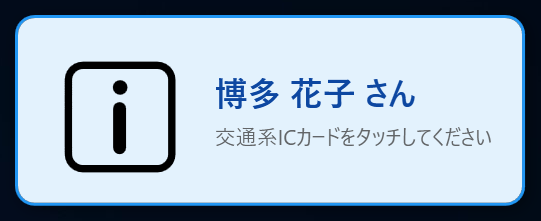
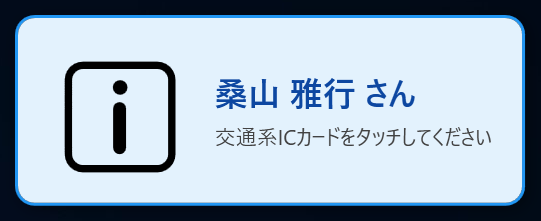
fix: ユーザーマニュアル概要版の職員証認識トーストを、写真の職員証の氏名で撮るようにした（#2243） (#2244)

diff --git a/ICCardManager/tests/ICCardManager.Tests/Tools/ScreenshotSyncMappingTests.cs b/ICCardManager/tests/ICCardManager.Tests/Tools/ScreenshotSyncMappingTests.cs
@@ -202,7 +202,7 @@ namespace ICCardManager.Tests.Tools
                     var classText = testSources.Select(File.ReadAllText)
                         .FirstOrDefault(t => Regex.IsMatch(t, $@"class\s+{Regex.Escape(fqn.Groups["class"].Value)}\b"));
                     classText.Should().NotBeNull($"{filter}: クラス {fqn.Groups["class"].Value} が撮影テストに存在すること");
-                    Regex.IsMatch(classText!, $@"public\s+void\s+{Regex.Escape(fqn.Groups["prefix"].Value)}\w*\s*\(")
+                    Regex.IsMatch(classText!, $@"public\s+(?:async\s+)?(?:void|Task)\s+{Regex.Escape(fqn.Groups["prefix"].Value)}\w*\s*\(")
                         .Should().BeTrue($"{filter}: 接頭辞 {fqn.Groups["prefix"].Value} で始まるテストメソッドが存在すること");
                 }
                 else if (display.Success)
@@ -492,7 +492,183 @@ $b = Invoke-ManifestScript (@(""-Write"", ""-Json"") +
             ExtractCapturedFileNames(sample).Should().BeEquivalentTo(new[] { "main.png", "card.png", "lend.png" });
         }
 
+        // ── 概要版の写真と並べる画像（Issue #2243） ─────────────────────────────────
+
+        /// <summary>
+        /// 概要版マニュアルで職員証の写真（<c>touch_syokuinsho.jpg</c>）と同じ行に並ぶ画像は、
+        /// 写真の職員証の氏名で撮る撮影テストが保存する。
+        /// </summary>
+        /// <remarks>
+        /// 本編用の <c>staff_recognized.png</c> と同じ撮影でトースト単体を撮っていた頃は、トーストの氏名が架空の
+        /// 「博多 花子」になり、写真に写る職員証の氏名と食い違っていた。
+        /// </remarks>
+        [Fact]
+        public void 概要版_職員証の写真と並べる画像は写真の氏名の投入データで撮る()
+        {
+            var paired = StaffCardPhotoPairedImageNames();
+            paired.Should().Contain("toast_staff_recognized.png", "概要版の抽出が空振りしていないこと（既知の対）");
+
+            var methods = ScreenshotTestMethods();
+            foreach (var name in paired)
+            {
+                var capturing = methods.Where(m => m.Captured.Contains(name)).ToList();
+                capturing.Should().ContainSingle($"{name} を保存する撮影テストは 1 つであること");
+                UsesPhotographedStaffSeed(capturing[0].Body).Should().BeTrue(
+                    $"{name} は職員証の写真と並ぶので、写真の氏名の投入データ（{PhotographedStaffSeedName}）で撮ること（{capturing[0].Name}）");
+            }
+        }
+
+        /// <summary>
+        /// 写真の氏名の投入データで撮る撮影テストは、写真と並べる画像だけを保存する（上の表明の対）。
+        /// </summary>
+        /// <remarks>
+        /// この投入データは職員マスタの氏名だけを置き換え、台帳の氏名は架空のまま残す。本編用の画面
+        /// （<c>staff_recognized.png</c> など、メイン画面の履歴が写るもの）まで同じ撮影で撮ると、
+        /// 写真と並ばない画像の氏名まで変わり、履歴の氏名とも食い違う。
+        /// </remarks>
+        [Fact]
+        public void 概要版_写真の氏名の投入データで撮る撮影は写真と並べる画像だけを保存する()
+        {
+            var paired = StaffCardPhotoPairedImageNames();
+            var users = ScreenshotTestMethods().Where(m => UsesPhotographedStaffSeed(m.Body)).ToList();
+
+            users.Should().NotBeEmpty("写真の氏名の投入データを使う撮影テストが存在すること");
+            foreach (var method in users)
+            {
+                method.Captured.Should().NotBeEmpty($"{method.Name} が画像を保存していること");
+                method.Captured.Should().BeSubsetOf(paired,
+                    $"{method.Name} は写真の氏名で撮るので、概要版で職員証の写真と並ぶ画像だけを保存すること");
+            }
+        }
+
+        /// <summary>
+        /// 写真の氏名の投入データは、仮想タッチの職員の氏名を職員マスタで写真の氏名へ置き換える。
+        /// </summary>
+        /// <remarks>
+        /// 写真の中身はコードから読めないため、写真に写る氏名（「桑山 雅行」）をここで固定する。
+        /// 写真を撮り直したときは、定数とあわせてこの期待値も直すこと。
+        /// </remarks>
+        [Fact]
+        public void 撮影用データ_写真の氏名は本編の氏名と別の値で_仮想タッチの職員の氏名を置き換える()
+        {
+            var source = File.ReadAllText(Path.Combine(
+                RepoRoot, "ICCardManager", "tests", "ICCardManager.UITests", "Infrastructure", "ScreenshotSeedData.cs"));
+
+            ConstValue(source, "PhotographedStaffName").Should().Be("桑山 雅行", "touch_syokuinsho.jpg に写る職員証の氏名");
+            ConstValue(source, "PrimaryStaffName").Should().NotBe(ConstValue(source, "PhotographedStaffName"),
+                "本編の画面は架空の氏名のまま撮ること（写真の氏名にすると置き換えの意味が無くなる）");
+
+            var body = TestSourceInspection.ExtractMethodBodyPreservingLiterals(
+                source, "public static void SeedForPhotographedStaffTouch(SQLiteConnection conn)");
+            body.Should().Contain("SeedForVirtualTouch(conn)", "仮想タッチの撮影と同じ投入データを土台にすること");
+            Regex.IsMatch(body, @"UPDATE\s+staff\s+SET\s+name\s*=\s*@name\s+WHERE\s+staff_idm\s*=\s*@idm")
+                .Should().BeTrue("職員マスタの氏名を置き換えること");
+            body.Should().Contain("(\"@name\", PhotographedStaffName)").And.Contain("(\"@idm\", AppFixture.SeededStaffIdm)",
+                "DEBUG パネルの「職員証」が模擬する職員の氏名を写真の氏名にすること");
+        }
+
+        [Fact]
+        public void 抽出_概要版で職員証の写真と同じ行に並ぶ画像だけを拾う()
+        {
+            const string sample = @"
+| ![職員証をタッチ](../screenshots/touch_syokuinsho.jpg){width=5cm} | ![認識画面](../screenshots/toast_staff_recognized.png){width=6cm} |
+| ![交通系ICカードをタッチ](../screenshots/touch_koutsuukeiIC.jpg){width=5cm} | ![貸出完了](../screenshots/toast_lend.png){width=6cm} |
+";
+            ExtractStaffCardPhotoPairedImageNames(sample).Should().Equal("toast_staff_recognized.png");
+        }
+
+        [Fact]
+        public void 抽出_撮影テストのメソッドは戻り値の型によらず拾い_コンストラクタは拾わない()
+        {
+            const string sample = @"
+                public TouchScreenshotTests() { }
+                [SkippableFact]
+                public void staff_recognized_and_lend_職員証認識と貸出完了() { }
+                [SkippableFact]
+                public async Task toast_async_非同期の撮影() { await Task.Yield(); }
+                [SkippableFact]
+                public Task toast_task_Taskを返す撮影() { return Task.CompletedTask; }
+            ";
+            ExtractPublicMethodSignatures(sample).Select(d => d.Name).Should().Equal(
+                "staff_recognized_and_lend_職員証認識と貸出完了", "toast_async_非同期の撮影", "toast_task_Taskを返す撮影");
+        }
+
         // ── ヘルパー ─────────────────────────────────
+
+        private const string PhotographedStaffSeedName = "SeedForPhotographedStaffTouch";
+
+        /// <summary>
+        /// メソッド本体が写真の氏名の投入データを使っているか。<c>using static</c> で修飾を省いた呼び出しも拾うよう、
+        /// 型名ではなくメソッド名の語境界一致で見る（コードレビューで検出）。
+        /// 見るのはテストメソッドの本体に直接現れる呼び出しだけで、補助メソッド経由の呼び出しは辿らない。
+        /// 撮影テストからは直接呼ぶこと。
+        /// </summary>
+        private static bool UsesPhotographedStaffSeed(string body) =>
+            Regex.IsMatch(body, $@"\b{PhotographedStaffSeedName}\b");
+
+        private static IReadOnlyList<string> StaffCardPhotoPairedImageNames() =>
+            ExtractStaffCardPhotoPairedImageNames(File.ReadAllText(Path.Combine(
+                RepoRoot, "ICCardManager", "docs", "manual", "ユーザーマニュアル概要版.md")));
+
+        /// <summary>
+        /// 概要版マニュアルの本文から、職員証の写真（<c>touch_syokuinsho.jpg</c>）と同じ行に並ぶ画像名を抽出する。
+        /// </summary>
+        internal static IReadOnlyList<string> ExtractStaffCardPhotoPairedImageNames(string markdown) =>
+            markdown.Split('\n')
+                .Where(line => line.Contains("touch_syokuinsho.jpg"))
+                .SelectMany(line => Regex.Matches(line, @"screenshots/(?<name>[A-Za-z0-9_]+\.png)").Cast<Match>())
+                .Select(m => m.Groups["name"].Value)
+                .Distinct()
+                .ToList();
+
+        /// <summary>
+        /// コメントを除いたソースから public メソッド（<c>void</c> / <c>Task</c>、<c>async</c> の有無を問わない）の名前と、
+        /// <see cref="TestSourceInspection.ExtractMethodBodyPreservingLiterals"/> へ渡すシグネチャの先頭を抽出する。
+        /// </summary>
+        /// <remarks>
+        /// 本体の取り出しはブロック本体（<c>{ }</c>）を持つメソッドに限る。撮影テストを式本体（<c>=&gt; …;</c>）で書くと、
+        /// <see cref="TestSourceInspection.ExtractMethodBodyPreservingLiterals"/> が例外にする。
+        /// </remarks>
+        internal static IReadOnlyList<(string Name, string Signature)> ExtractPublicMethodSignatures(string code) =>
+            Regex.Matches(code, @"public\s+(?:async\s+)?(?:void|Task)\s+(?<name>\w+)\s*\(")
+                .Cast<Match>()
+                .Select(m => (m.Groups["name"].Value, m.Value))
+                .ToList();
+
+        /// <summary>撮影テスト（<c>*ScreenshotTests.cs</c>）の各テストメソッドの名前・本体・保存する画像名。</summary>
+        /// <remarks>
+        /// 戻り値の型（<c>void</c> / <c>async Task</c>）で絞ると、別の形で書いた撮影テストが対の表明から静かに漏れる
+        /// （コードレビューで検出）。抽出したメソッドの数がテスト属性の数と一致することをファイルごとに表明する。
+        /// </remarks>
+        private static List<(string Name, string Body, IReadOnlyList<string> Captured)> ScreenshotTestMethods()
+        {
+            var methods = new List<(string Name, string Body, IReadOnlyList<string> Captured)>();
+            foreach (var path in ScreenshotTestSources())
+            {
+                var source = File.ReadAllText(path);
+                var code = TestSourceInspection.RemoveCommentsPreservingLines(source);
+                var attributes = Regex.Matches(code, @"\[(?:Skippable)?(?:Fact|Theory)\b").Count;
+                var declarations = ExtractPublicMethodSignatures(code);
+                declarations.Should().HaveCount(attributes,
+                    $"{Path.GetFileName(path)} のテストメソッドをすべて抽出していること（属性 {attributes} 件）");
+
+                foreach (var (name, signature) in declarations)
+                {
+                    var body = TestSourceInspection.ExtractMethodBodyPreservingLiterals(source, signature);
+                    methods.Add((name, body, ExtractCapturedFileNames(body).ToList()));
+                }
+            }
+
+            methods.Should().NotBeEmpty("撮影テストのメソッド抽出が空振りしていないこと");
+            return methods;
+        }
+
+        private static string ConstValue(string source, string name)
+        {
+            var m = Regex.Match(source, $@"const\s+string\s+{Regex.Escape(name)}\s*=\s*""(?<value>[^""]*)""");
+            m.Success.Should().BeTrue($"定数 {name} が宣言されていること");
+            return m.Groups["value"].Value;
+        }
 
         private static List<string> ScreenshotNames(JsonDocument doc) =>
             doc.RootElement.GetProperty("screenshots").EnumerateArray().Select(s => s.GetProperty("name").GetString()!).ToList();

diff --git a/ICCardManager/tests/ICCardManager.UITests/Infrastructure/ScreenshotSeedData.cs b/ICCardManager/tests/ICCardManager.UITests/Infrastructure/ScreenshotSeedData.cs
@@ -50,6 +50,17 @@ namespace ICCardManager.UITests.Infrastructure
         public const string SecondaryStaffName = "天神 太郎";
 
         /// <summary>
+        /// 概要版マニュアルの写真 <c>docs/screenshots/touch_syokuinsho.jpg</c> に写っている職員証の氏名（Issue #2243）。
+        /// </summary>
+        /// <remarks>
+        /// 概要版は写真（実物の職員証をタッチする手元）と認識トースト（<c>toast_staff_recognized.png</c>）を
+        /// 1 行に並べるので、トーストの氏名が写真の職員証と違うと「別の人の職員証で認識された」と読める。
+        /// 写真の中身はコードから読めないため、写真を撮り直したらこの値も合わせて直すこと。
+        /// 本編の画面（<see cref="PrimaryStaffName"/>）は架空の氏名のまま変えない。
+        /// </remarks>
+        public const string PhotographedStaffName = "桑山 雅行";
+
+        /// <summary>
         /// DEBUG パネルの「交通系ICカード」ボタンが模擬する IDm（<c>MainViewModel.SimulateIcCard</c> と一致させる）。
         /// 第 2 段階（Issue #2019）の貸出・返却撮影で使う。
         /// </summary>
@@ -103,6 +114,32 @@ namespace ICCardManager.UITests.Infrastructure
                 SetSetting(conn, "companion_count_input_timeout_seconds", "0");
             }
             tx.Commit();
+        }
+
+        /// <summary>
+        /// 概要版マニュアルの写真と並べる職員証認識トースト用のサンプルデータ（Issue #2243）。
+        /// <see cref="SeedForVirtualTouch(SQLiteConnection)"/> の主担当の職員（仮想タッチの IDm）の氏名を
+        /// <see cref="PhotographedStaffName"/> へ置き換える。
+        /// </summary>
+        /// <remarks>
+        /// 置き換えは職員マスタだけで、台帳の氏名（<c>ledger.staff_name</c>）は <see cref="PrimaryStaffName"/> のまま残る。
+        /// トーストは職員マスタの氏名しか表示しないので、このデータで撮るのはトースト単体に限ること
+        /// （メイン画面の履歴まで写すと、台帳と職員マスタで氏名が食い違った画面になる）。
+        /// </remarks>
+        public static void SeedForPhotographedStaffTouch(SQLiteConnection conn)
+        {
+            SeedForVirtualTouch(conn);
+            var updated = Execute(conn,
+                "UPDATE staff SET name = @name WHERE staff_idm = @idm",
+                ("@name", PhotographedStaffName), ("@idm", AppFixture.SeededStaffIdm));
+
+            // 0 行のまま進むと、トーストは架空の氏名のまま撮られ、写真との食い違いが黙って戻る
+            if (updated != 1)
+            {
+                throw new InvalidOperationException(
+                    $"写真の氏名へ置き換える職員（IDm {AppFixture.SeededStaffIdm}）が {updated} 行でした。" +
+                    "Seed が投入する主担当の職員の IDm と AppFixture.SeededStaffIdm を揃えてください。");
+            }
         }
 
         /// <summary>
@@ -297,7 +334,8 @@ namespace ICCardManager.UITests.Infrastructure
         private static string ToText(DateTime value) =>
             value.ToString(DateTimePattern, CultureInfo.InvariantCulture);
 
-        private static void Execute(SQLiteConnection conn, string sql, params (string name, object value)[] parameters)
+        /// <returns>影響行数。</returns>
+        private static int Execute(SQLiteConnection conn, string sql, params (string name, object value)[] parameters)
         {
             using var cmd = conn.CreateCommand();
             cmd.CommandText = sql;
@@ -305,7 +343,7 @@ namespace ICCardManager.UITests.Infrastructure
             {
                 cmd.Parameters.AddWithValue(name, value);
             }
-            cmd.ExecuteNonQuery();
+            return cmd.ExecuteNonQuery();
         }
     }
 }

diff --git a/ICCardManager/tests/ICCardManager.UITests/Tests/TouchScreenshotTests.cs b/ICCardManager/tests/ICCardManager.UITests/Tests/TouchScreenshotTests.cs
@@ -60,7 +60,6 @@ namespace ICCardManager.UITests.Tests
             InvokeDebugPanelButton(page, TestConstants.DebugPanelStaffButton);
             var toast = WaitForToast(fixture);
             File.Exists(ScreenshotHelper.CaptureWithToast(fixture.MainWindow, toast, "staff_recognized.png")).Should().BeTrue();
-            File.Exists(ScreenshotHelper.Capture(toast, "toast_staff_recognized.png", bringToFront: false)).Should().BeTrue();
 
             // 認識トーストが消えるのを待ってから次のタッチへ（貸出トーストと見分けるため）
             WaitForToastGone(fixture);
@@ -70,6 +69,30 @@ namespace ICCardManager.UITests.Tests
             toast = WaitForToast(fixture);
             File.Exists(ScreenshotHelper.CaptureWithToast(fixture.MainWindow, toast, "lend.png")).Should().BeTrue();
             File.Exists(ScreenshotHelper.Capture(toast, "toast_lend.png", bringToFront: false)).Should().BeTrue();
+        }
+
+        /// <summary>
+        /// 概要版マニュアルの職員証認識トースト（Issue #2243）。
+        /// </summary>
+        /// <remarks>
+        /// 概要版はこのトーストを職員証の写真（<c>touch_syokuinsho.jpg</c>）と並べるので、写真の職員証の氏名
+        /// （<see cref="ScreenshotSeedData.PhotographedStaffName"/>）で撮る。本編の <c>staff_recognized.png</c> と同じ
+        /// 撮影で取ると氏名が架空の <see cref="ScreenshotSeedData.PrimaryStaffName"/> になり、写真と食い違う。
+        /// 氏名を置き換えたデータは台帳の氏名と食い違うので、このメソッドではトースト単体だけを撮る。
+        /// トーストの角には撮影時の背後のデスクトップが写るので、公開前に四隅を確かめること（docs/screenshots/README.md）。
+        /// </remarks>
+        [SkippableFact]
+        public void toast_staff_recognized_概要版の職員証認識トースト()
+        {
+            SkipUnlessDebugCapture();
+
+            using var fixture = AppFixture.LaunchWithSeed(ScreenshotSeedData.SeedForPhotographedStaffTouch);
+            ScreenshotHelper.MoveToTopLeft(fixture.MainWindow);
+            var page = new MainWindowPage(fixture.MainWindow, fixture.Automation);
+
+            InvokeDebugPanelButton(page, TestConstants.DebugPanelStaffButton);
+            var toast = WaitForToast(fixture);
+            File.Exists(ScreenshotHelper.Capture(toast, "toast_staff_recognized.png", bringToFront: false)).Should().BeTrue();
         }
 
         [SkippableFact]

diff --git a/ICCardManager/docs/screenshots/README.md b/ICCardManager/docs/screenshots/README.md
@@ -57,7 +57,7 @@ cd D:\OneDrive\交通系\src\ICCardManager
 | Release | リストア用バックアップ一覧（1 件選択した状態） | `restore_list.png` |
 | Release | 画面の一部だけを撮るもの（要素の矩形で撮影） | `card_list_status_mixed.png`（カード一覧）`error_no_reader.png`（ステータスバーの接続状態と再接続ボタン） |
 | Debug | 職員証認識・貸出完了・返却完了（メイン画面と画面隅のトーストの両方を含む矩形で撮る） | `staff_recognized.png` `lend.png` `return.png` |
-| Debug | トースト単体（概要版マニュアル用） | `toast_staff_recognized.png` `toast_lend.png` `toast_return.png` |
+| Debug | トースト単体（概要版マニュアル用。職員証認識は写真の職員証の氏名で撮る） | `toast_staff_recognized.png` `toast_lend.png` `toast_return.png` |
 | Debug | 返却後に開くダイアログ | `busstop.png` `companion_count.png` |
 | Debug | 仮想タッチ（DEBUG 限定の機能そのもの） | `virtual_touch.png` |
 | Debug | 職員証認証を経る画面 | `system_lend.png` `ledger_row_edit.png` |
@@ -77,6 +77,7 @@ cd D:\OneDrive\交通系\src\ICCardManager
 - **投入データで作れない外部状態に依存する画像は自動撮影の対象外**。`error_no_reader.png` は撮影機に PaSoRi が繋がっていると「接続済み」の画像ができてしまうため、切断でなければ撮らずに Skip する。共有モードのネットワーク切断（`warning_network_disconnected.png`）と、OS 標準の保存ダイアログを経る手動バックアップ（`backup_completed_status.png`）は対話式スクリプトに残している
 - **職員証認証（`StaffAuthDialog`）を経る画面は Debug パスでしか撮れない**。履歴行の追加・貸出記録の作成は監査対象の操作で職員証のタッチを要求し、実カードリーダーの無い環境では DEBUG 限定の仮想タッチでしか通せない
 - 撮影中はアプリのウィンドウが画面左上へ移動して前面に出る。マウス・キーボードに触れないこと
+- **トースト単体の画像（`toast_*.png`）は角が透けて、撮影時の背後のデスクトップが写る**。トーストは角の丸いウィンドウで、矩形で撮ると角の外側に背後の画面がそのまま入る。`-Publish` の前に `auto\` の画像の四隅を確かめ、別のウィンドウ（ブラウザー・アイコン等）が写っていれば、既存の画像を下地に文字の領域だけを差し替えて公開する（Issue #2243 の `toast_staff_recognized.png` はこの方法で公開した）。撮影前にほかのウィンドウを最小化しておけば壁紙だけが写る
 - **管理者権限で動いているウィンドウを前面にしたまま実行しない**。Windows が前面化と入力注入を拒否するため、クリック・キー入力を要する撮影（履歴照会）が「アプリのウィンドウを前面にできません」で失敗する。そのウィンドウを閉じるか最小化してからやり直す
 - テストプロセスを DPI 対応にして物理ピクセルで撮るため、表示スケール 150% では 100% の 1.5 倍の寸法になる。既存画像と寸法を揃えたいときは表示スケールを 100% にして実行する
 

diff --git a/ICCardManager/CHANGELOG.md b/ICCardManager/CHANGELOG.md
@@ -3,6 +3,11 @@
 ### Unreleased
 
 **不具合修正**
+- Issue #2243 **ユーザーマニュアル概要版で、タッチしている職員証の氏名と画面（認識トースト）の氏名が食い違っていたのを直した**
+  - 概要版は職員証をタッチする写真（`touch_syokuinsho.jpg`。実物の職員証「桑山 雅行」）と認識トースト（`toast_staff_recognized.png`）を 1 行に並べるが、トーストを本編用の `staff_recognized.png` と同じ撮影で取っていたため、撮影用の架空の氏名「博多 花子」で写っていた
+  - 概要版用のトーストだけを、職員マスタの氏名を写真の職員証の氏名へ置き換えたデータで撮るメソッドに分けた（`TouchScreenshotTests.toast_staff_recognized_概要版の職員証認識トースト`）。本編の画面は架空の氏名のまま変えない
+  - 概要版で写真と並ぶ画像はそのデータで撮ること・そのデータで撮るのは写真と並ぶ画像だけであることを、概要版の本文から導出して静的検査で固定した（`Tools/ScreenshotSyncMappingTests` +5。単体 8,645→8,650・UI 115→116・合計 8,760→8,766）
+  - トーストは角が透けて撮影時のデスクトップが写るため、公開した画像は既存の画像を下地に文字の領域だけを差し替えた
 - Issue #2241 **ユーザーマニュアル概要版の PDF が作られず、インストーラーに古い PDF が同梱されていたのを直した**
   - PDF 変換（`docs/manual/convert-to-pdf.ps1`）の入力が、手作業で作っていた頃のファイル名「ユーザーマニュアル概要版（修正版）.docx」のままだった。#1489 で概要版の docx を自動生成へ切り替えた際、docx 側と PDF 側がそれぞれ持っていた変換対象の一覧のうち PDF 側だけが取り残された。入力が無いことはスキップ扱い（終了コード 0）だったため、インストーラーのビルドは「PDF変換完了」と表示し、#1489 より前の横向きの古い PDF が同梱され続けていた
   - 変換対象の一覧を `manual-targets.ps1` 1 つへ寄せ、.md / .docx / .pdf の名前を同じ基底名から導出するようにした。`convert-to-docx.ps1` と `convert-to-pdf.ps1` はこれを読み込み、`convert-to-docx.bat` は ps1 を呼び出すだけにした（bat は 3 つ目の一覧を持ち、概要版を変換できなかった）
